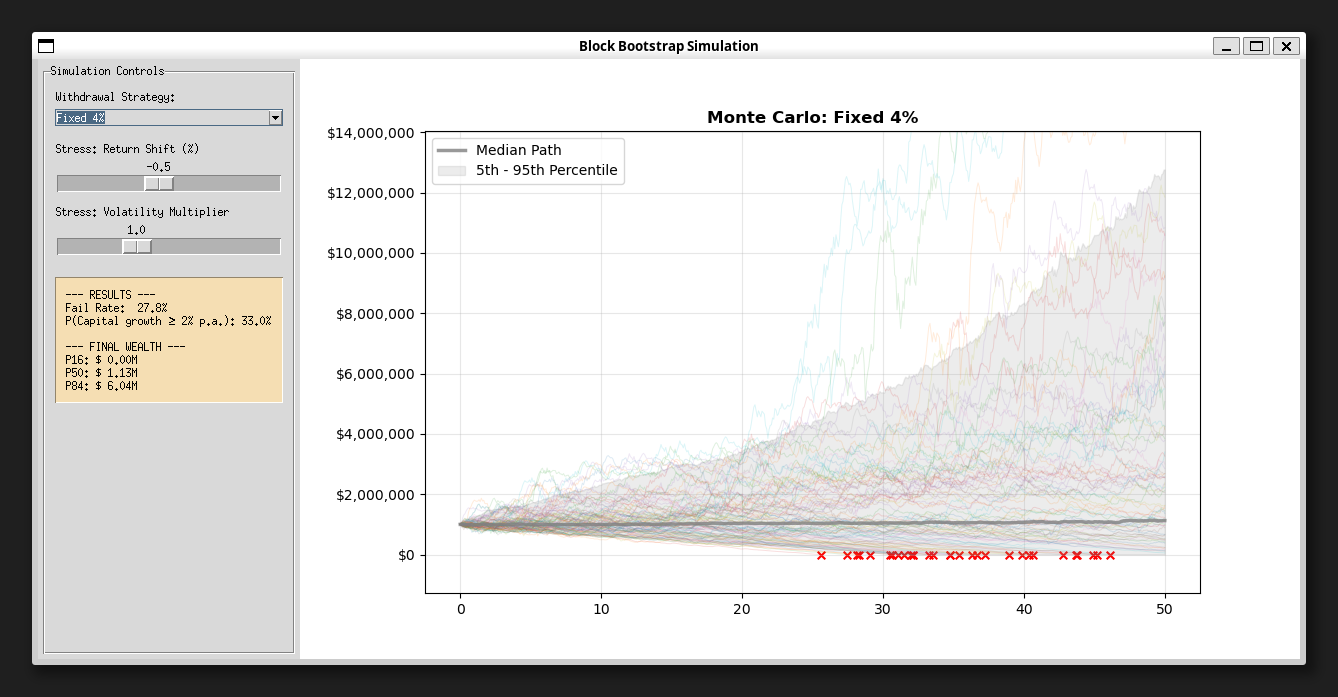
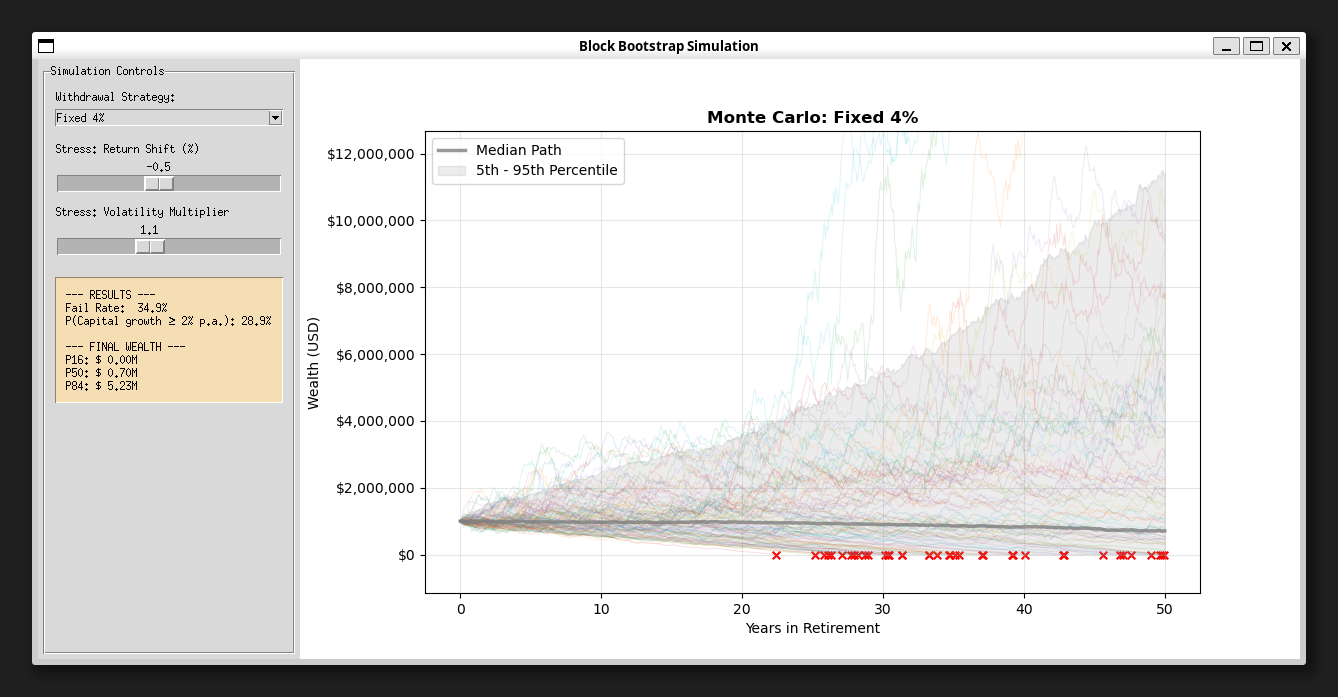
image updates

diff --git a/src/risk.py b/src/risk.py
@@ -77,6 +77,8 @@ def plot_risk_dashboard(root, portfolio_obj):
     ax_draw.fill_between(m["Drawdown_Series"].index, m["Drawdown_Series"], 0, color='#ff0000', alpha=0.4)
     ax_draw.plot(m["Drawdown_Series"].index, m["Drawdown_Series"], color='#ff0000', linewidth=1)
     ax_draw.set_title("Historical Drawdown Profile (Underwater Chart)", fontweight='bold', fontsize=12)
+    ax_draw.set_ylabel("Drawdown (%)")
+    ax_draw.set_xlabel("Year")
     ax_draw.grid(True, linestyle=':', alpha=0.6)
     
     # Plot 2: Distribution & Tail Risk (Bottom Right)
@@ -85,6 +87,8 @@ def plot_risk_dashboard(root, portfolio_obj):
     ax_dist.axvline(-m["VaR_95"], color='orange', ls='--', lw=2, label=f'VaR: {m["VaR_95"]:.1%}')
     ax_dist.axvline(-m["CVaR_95"], color='red', lw=2, label=f'CVaR: {m["CVaR_95"]:.1%}')
     ax_dist.set_title("Return Distribution & Tail Risk", fontweight='bold')
+    ax_dist.set_ylabel("Frequency")
+    ax_dist.set_xlabel("Monthly Return (%)")
     ax_dist.legend()
 
     # Plot 3: Dynamic Bar Chart (Bottom Left)
@@ -183,7 +187,7 @@ def plot_risk_dashboard(root, portfolio_obj):
             font=("Helvetica", 10, "bold")
         ).grid(row=0, column=i * 2, padx=5)
 
-        color = "red" if any(k in label for k in ["Drawdown", "VaR", "CVaR"]) else "black"
+        color = "red" if any(k in label for k in ["Vol", "Drawdown", "VaR", "CVaR"]) else "black"
 
         ttk.Label(
             stats_frame,

diff --git a/simulations/bootstrap.py b/simulations/bootstrap.py
@@ -210,6 +210,8 @@ def run_simulation(root, portfolio_obj=None, returns_df=None, config=None):
         padding = max(START_CAPITAL, np.max(p95_path))*0.1
         ax.set_ylim(np.min(p5_path)-padding, np.max(p95_path)+padding)
         ax.set_title(f"Monte Carlo: {strat_var.get()}", loc='center', fontweight='bold')
+        ax.set_ylabel("Wealth (USD)")
+        ax.set_xlabel("Years in Retirement")
         ax.legend(loc="upper left")
         ax.grid(alpha=0.3)
         canvas.draw()

diff --git a/src/five_factor_model.py b/src/five_factor_model.py
@@ -188,7 +188,9 @@ def run_ff5_analysis(master, portfolio_obj: Portfolio = None):
             (60, show_5y.get(), '5y'),
             (120, show_10y.get(), '10y'),
         ]
-
+        
+        ax.set_ylabel("Betas")
+        ax.set_xlabel("Year")
         plotted_factors = set()
         for W, enabled, label in windows:
             if not enabled:
